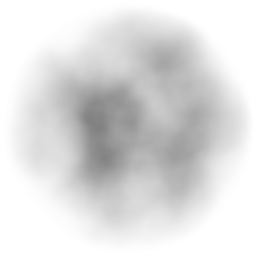
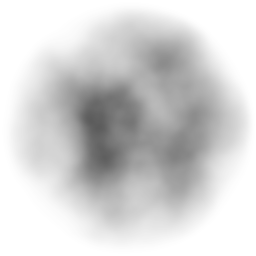
added soft shadows for particles and made smoke more opaque

Changed region(s): [[0.2812, 0.3125, 0.8125, 0.7188], [0.5938, 0.1875, 0.6875, 0.2812]]

diff --git a/Source/RenderPasses/BillboardRayTracer/BillboardRayTracer.cpp b/Source/RenderPasses/BillboardRayTracer/BillboardRayTracer.cpp
@@ -227,7 +227,7 @@ void BillboardRayTracer::renderUI(Gui::Widgets& widget)
     if (mBillboardType == (uint)BillboardType::Particle &&
         widget.checkbox("Soft particles", mSoftParticles)) dirty = true;
 
-    if (mBillboardType == (uint)BillboardType::Spherical)
+    if (mBillboardType != (uint)BillboardType::Impostor)
     {
         //if(widget.checkbox("Deep billboard samples", mDeepBillboardSamples)) dirty = true;
         if (widget.var("Deep shadow samples", mDeepBillboardSamples, 1, 32)) dirty = true;
